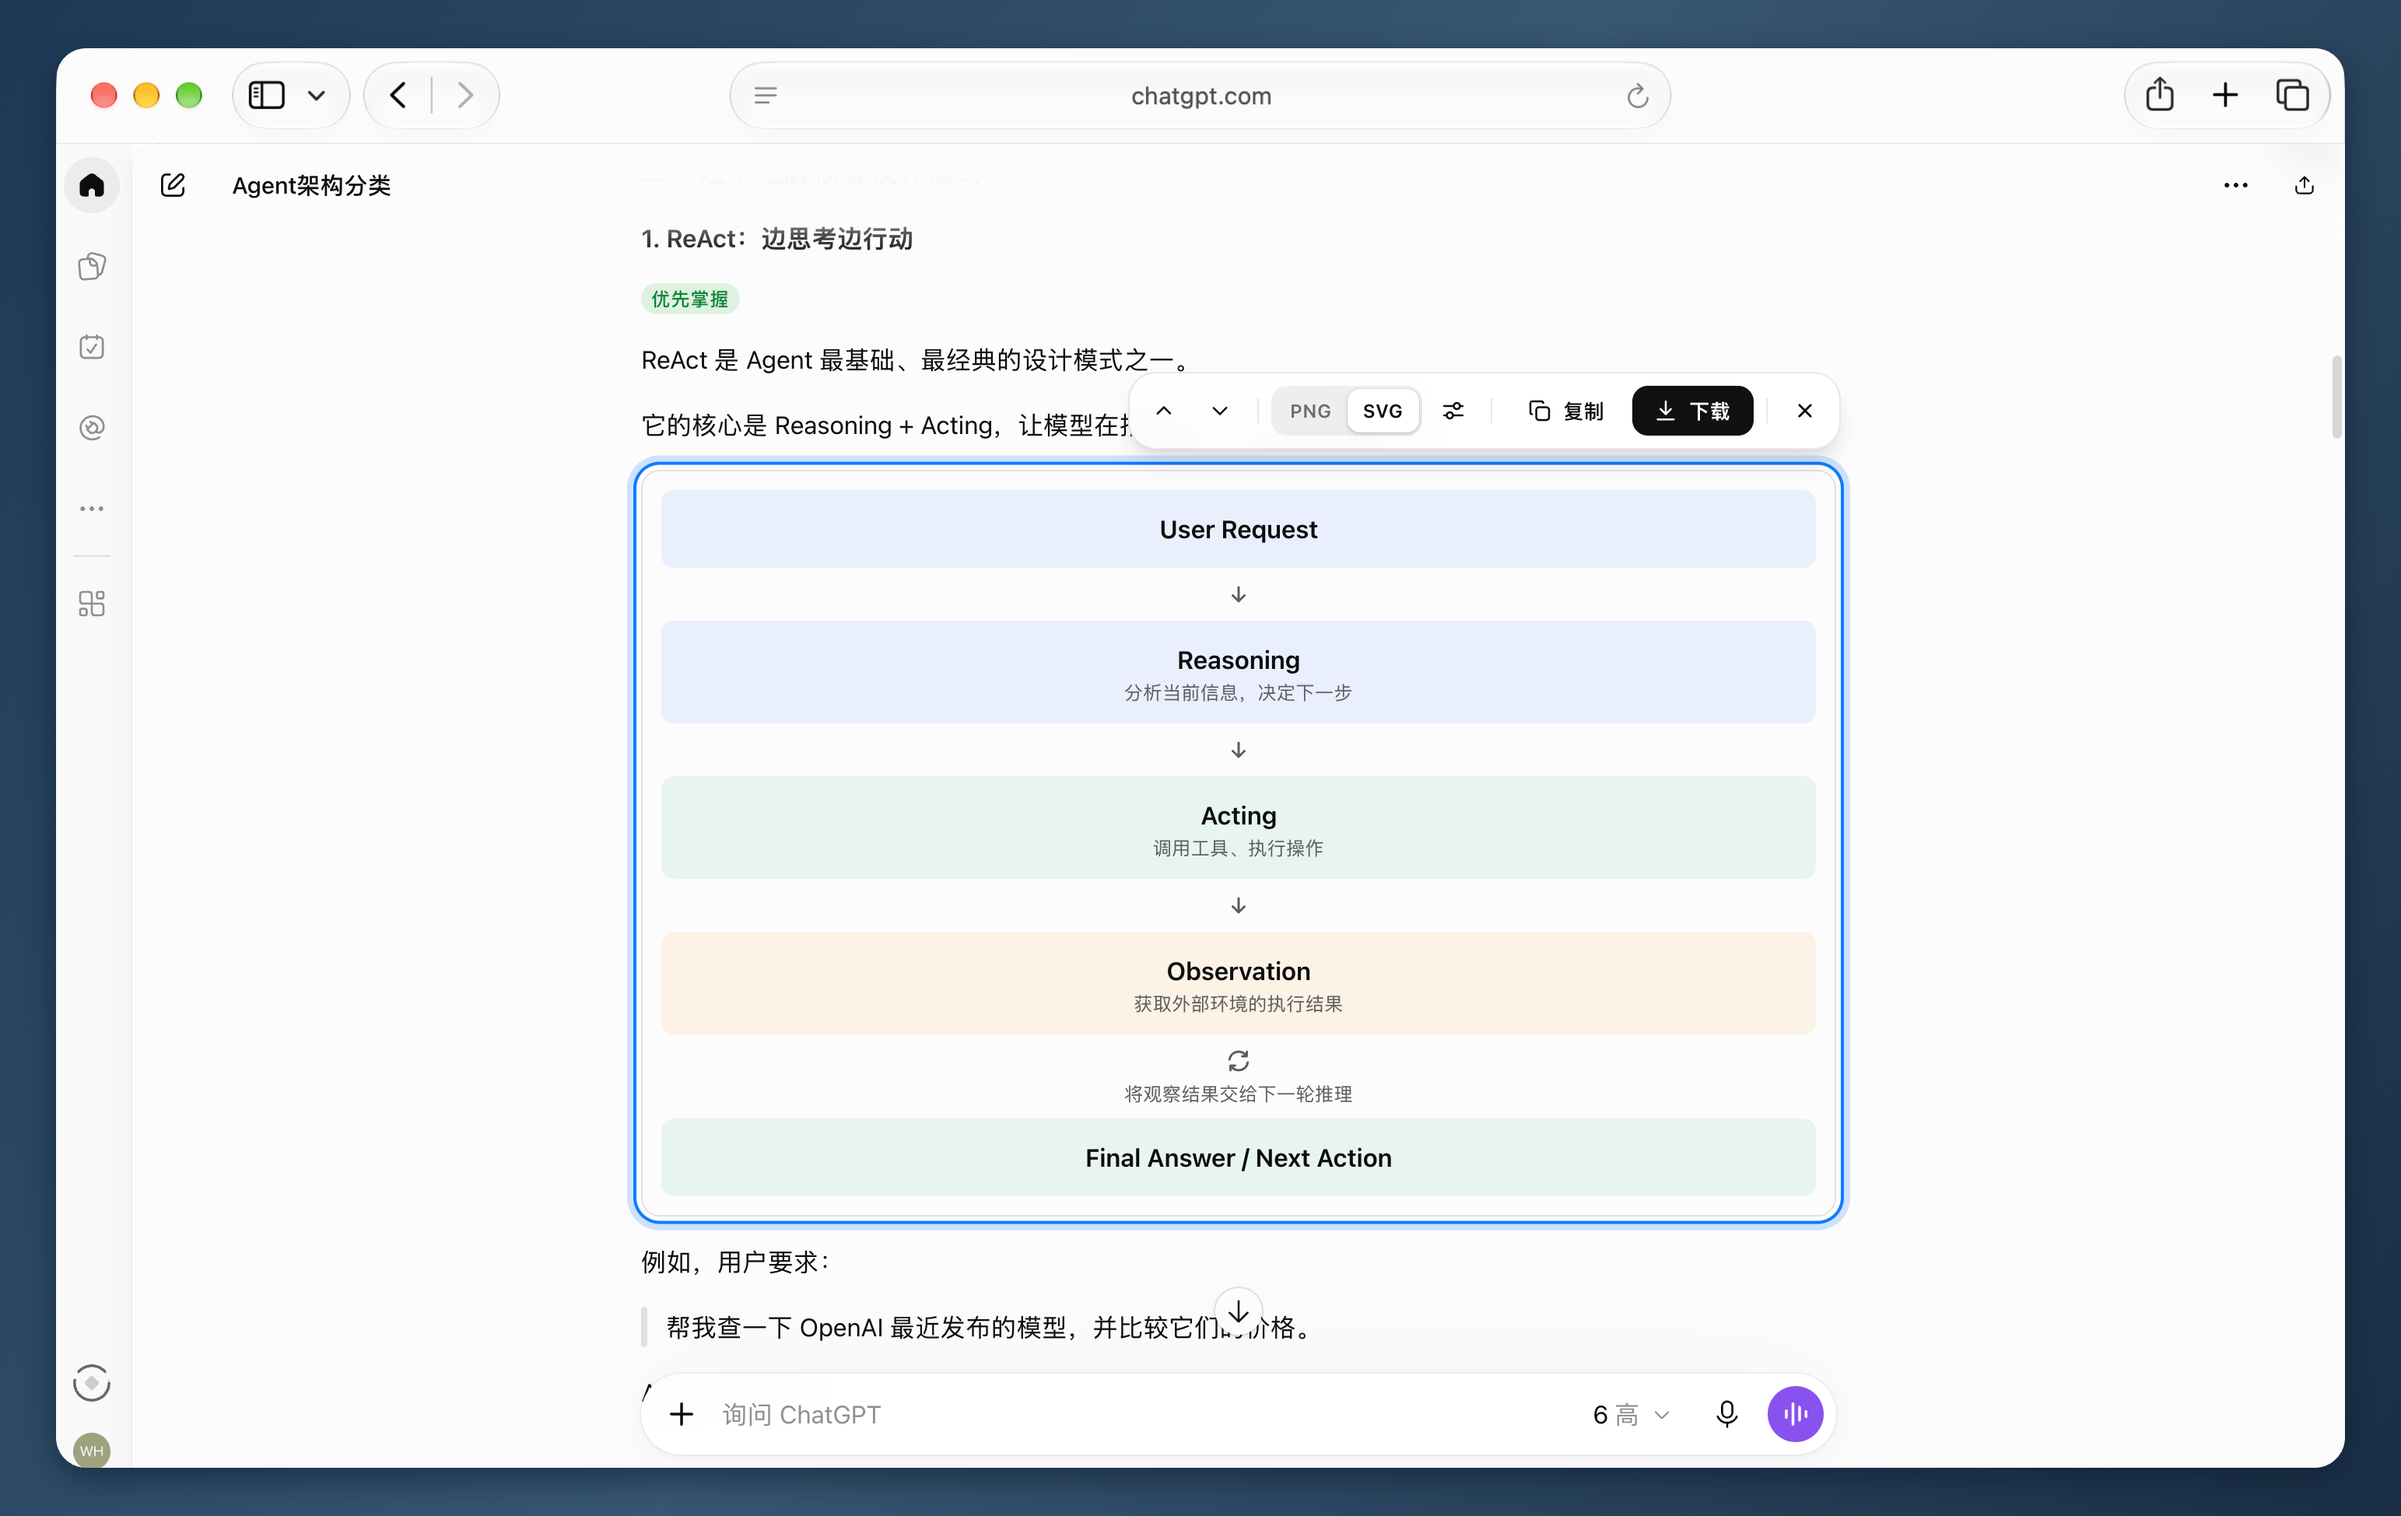
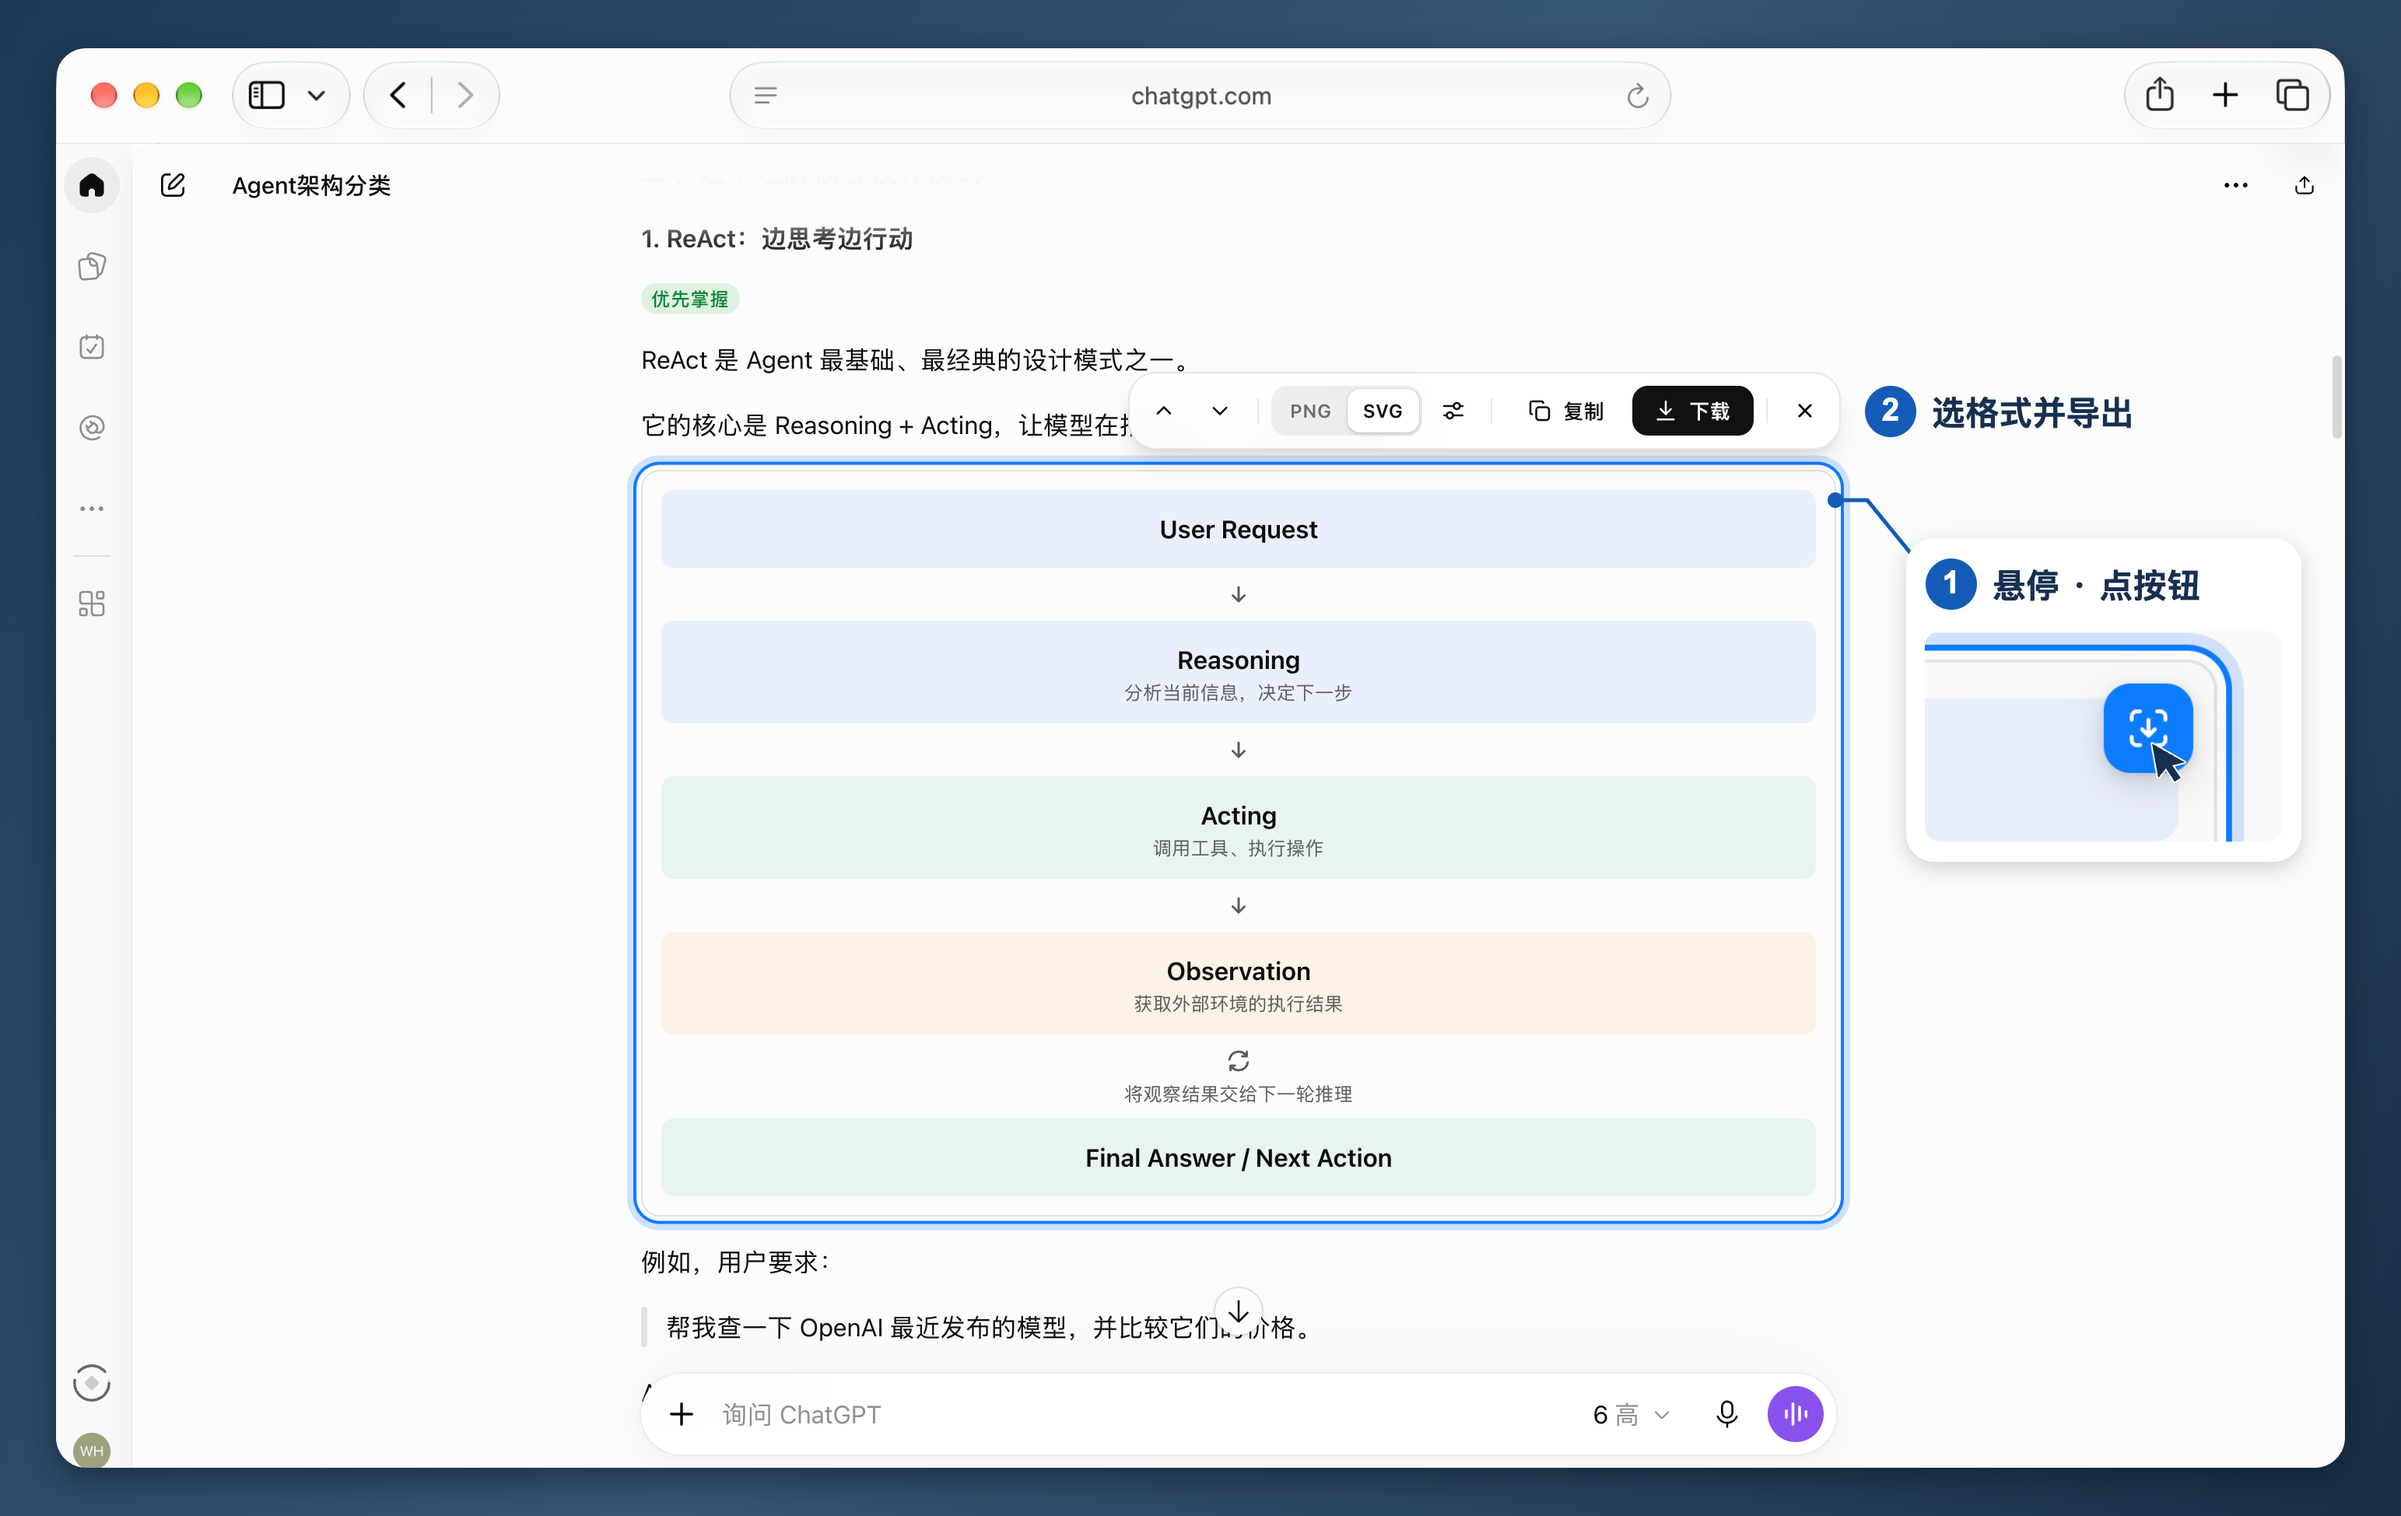
docs(readme): show the hover button and export steps in one image

Changed region(s): [[0.7777, 0.3694, 0.9332, 0.5849], [0.7777, 0.2463, 0.9021, 0.3079]]

diff --git a/README.md b/README.md
@@ -21,7 +21,7 @@
   <a href="#贡献">贡献</a>
 </p>
 
-![ChatGPT「Agent 架构分类」对话全景：Pocketta 用蓝框选中 ReAct 流程图，图上方的工具条已切换到 SVG。](docs/media/react-selection.png)
+![Pocketta 导出 ReAct 流程图的两个步骤：① 鼠标移到组件上，点击右上角的悬浮按钮；② 在蓝框上方的工具条选择 PNG 或 SVG，再复制或下载。](docs/media/react-selection.png)
 
 Pocketta 是一个 Chrome 扩展。ChatGPT 的回复里除了文字，还会出现卡片、图表、表格这样的界面组件（Intelligent UI）。想把其中一块单独留下来，靠截图就得自己对齐裁边，清晰度受屏幕限制，里面的文字和颜色也没法再改。
 
